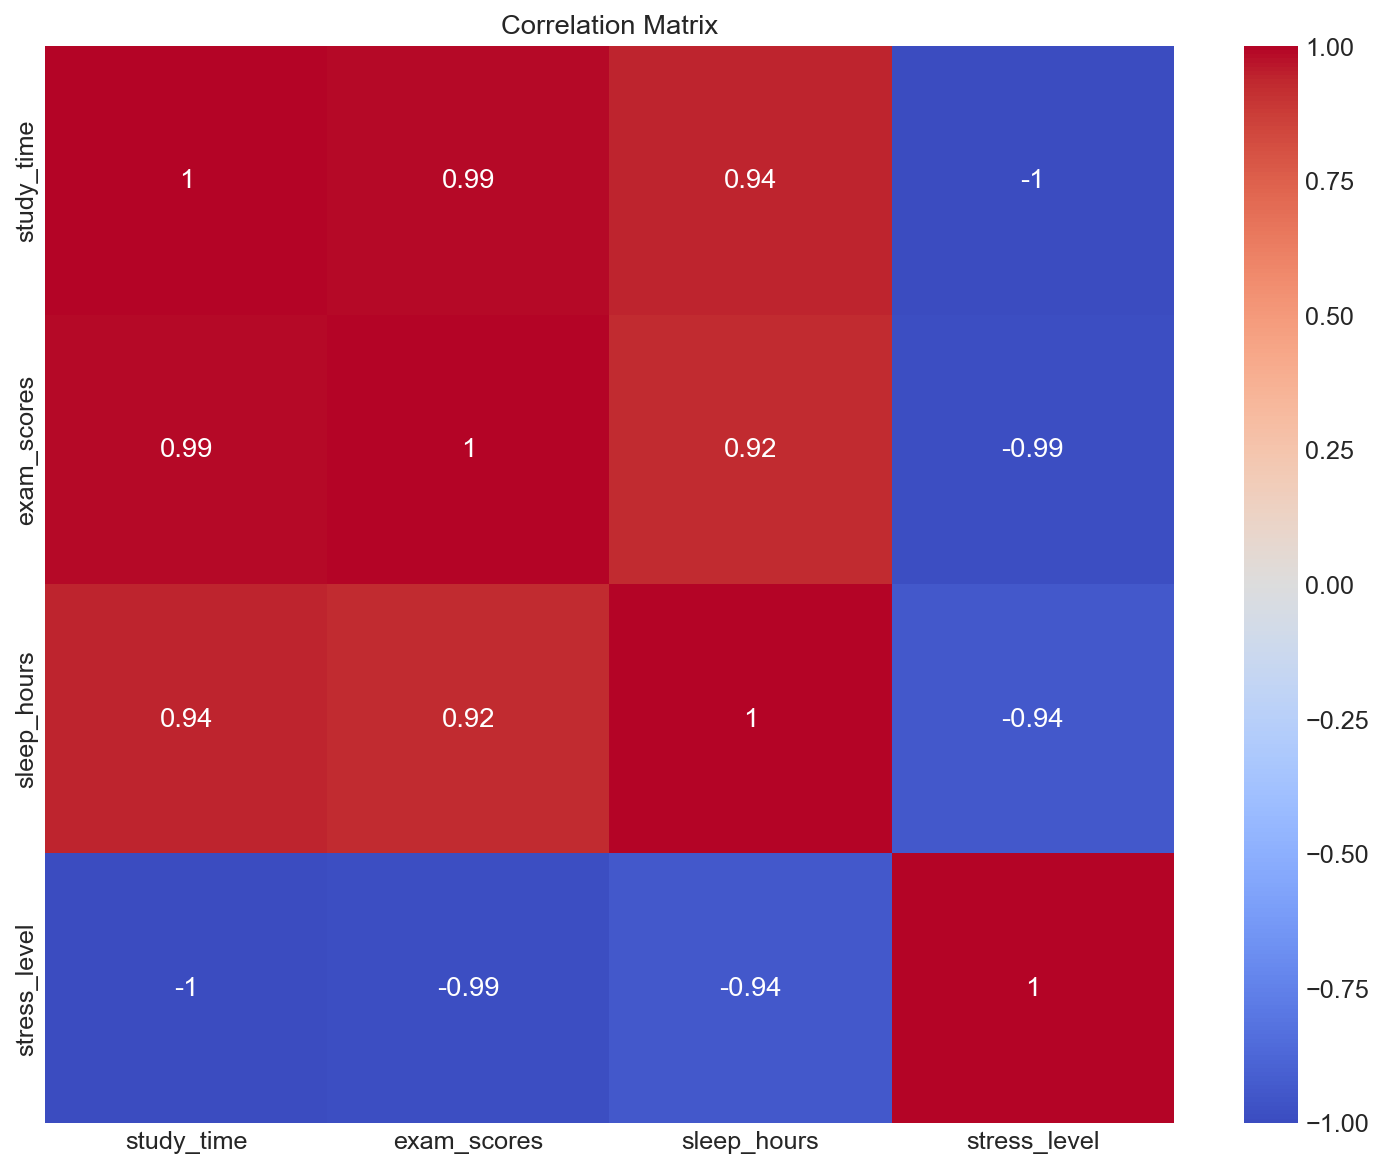
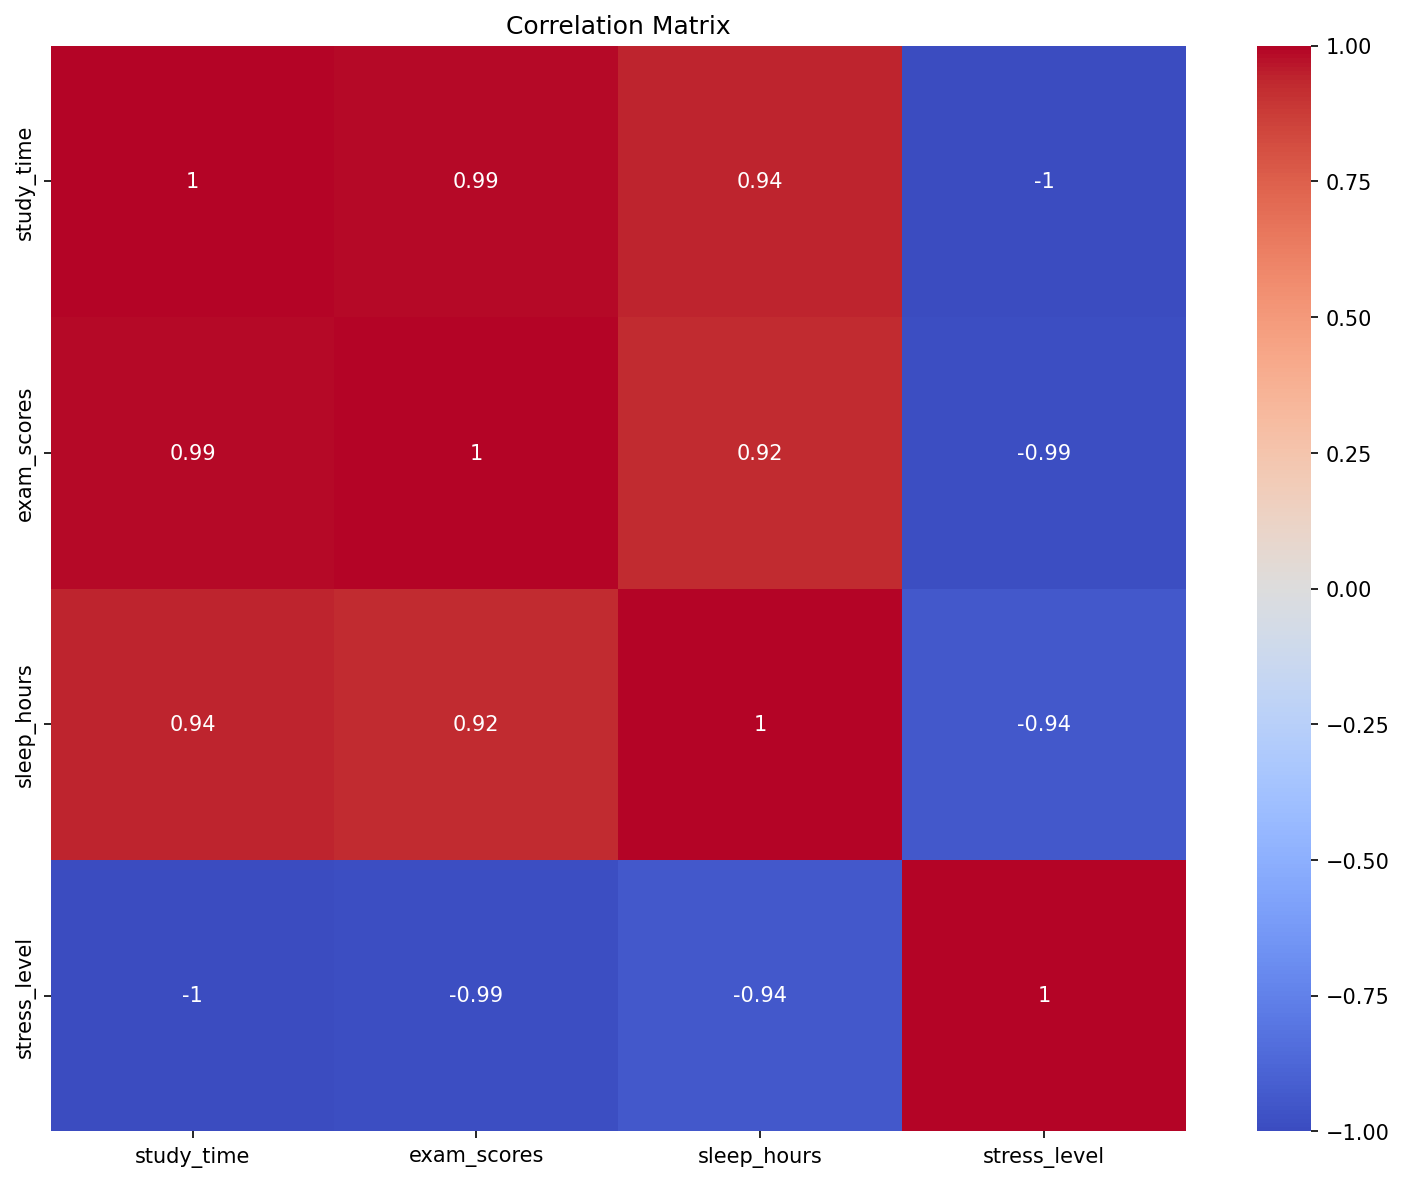
4.3 diagnostics: add Q-Q explanation and common-problems before/after visuals
- Wire orphan diagnostic figures into simple/multiple linear regression lessons
- Add generate_common_problems_visuals.py producing 4 before/after diagnostic
  plots for the "Common Problems and How to Fix Them" section
- Add a quantile-quantile plot explanation to the normality check
- Inject VIF stdout and re-render figures via inject_python_block_outputs

diff --git a/docs/4-stat-analysis/4.3-rship-in-data/generate_common_problems_visuals.py b/docs/4-stat-analysis/4.3-rship-in-data/generate_common_problems_visuals.py
@@ -1,0 +1,168 @@
+"""Before/after diagnostic plots for the "Common Problems and How to Fix Them"
+section of model-diagnostics.md. Each figure shows the erroneous diagnostic on
+the left and the same diagnostic after the recommended fix on the right.
+"""
+import matplotlib
+
+matplotlib.use("Agg")  # Use non-interactive backend
+import matplotlib.pyplot as plt
+import numpy as np
+from scipy import stats
+from sklearn.linear_model import LinearRegression
+from pathlib import Path
+
+ASSETS_DIR = Path("assets")
+ASSETS_DIR.mkdir(exist_ok=True)
+
+np.random.seed(42)
+BAD = "#c0392b"
+GOOD = "#27ae60"
+
+
+def residuals(x, y):
+    model = LinearRegression().fit(x.reshape(-1, 1), y)
+    return model.predict(x.reshape(-1, 1)), y - model.predict(x.reshape(-1, 1))
+
+
+# ----------------------------------------------------------------------
+# Problem 1: The relationship isn't actually straight (non-linearity)
+# Fix: add a quadratic term so the model can follow the curve.
+# ----------------------------------------------------------------------
+n = 120
+x = np.linspace(1, 10, n)
+y = 0.4 * x**2 + np.random.normal(0, 1.5, n)
+
+fitted_bad, resid_bad = residuals(x, y)
+
+X2 = np.column_stack([x, x**2])
+model2 = LinearRegression().fit(X2, y)
+fitted_good = model2.predict(X2)
+resid_good = y - fitted_good
+
+fig, axes = plt.subplots(1, 2, figsize=(14, 5))
+axes[0].scatter(fitted_bad, resid_bad, alpha=0.7, color=BAD)
+axes[0].axhline(0, color="k", linestyle="--", linewidth=1)
+axes[0].set_title("Problem: straight-line model\n(residuals show a clear curve)")
+axes[1].scatter(fitted_good, resid_good, alpha=0.7, color=GOOD)
+axes[1].axhline(0, color="k", linestyle="--", linewidth=1)
+axes[1].set_title("Fixed: added a quadratic term\n(residuals now scatter randomly)")
+for ax in axes:
+    ax.set_xlabel("Fitted values")
+    ax.set_ylabel("Residuals")
+    ax.grid(True, alpha=0.3)
+fig.suptitle("Problem 1 — Non-linear relationship", fontsize=14, fontweight="bold")
+plt.tight_layout()
+plt.savefig(ASSETS_DIR / "model-diagnostics_problem1.png", dpi=200, bbox_inches="tight")
+plt.close()
+
+
+# ----------------------------------------------------------------------
+# Problem 2: Inconsistent error spread (heteroscedasticity)
+# Fix: model log(y) so the multiplicative noise becomes additive.
+# ----------------------------------------------------------------------
+n = 150
+x = np.linspace(1, 10, n)
+y = 2 * x * np.exp(np.random.normal(0, 0.35, n))  # spread grows with x
+
+fitted_bad, resid_bad = residuals(x, y)
+
+logy = np.log(y)
+fitted_log, resid_good = residuals(x, logy)
+
+fig, axes = plt.subplots(1, 2, figsize=(14, 5))
+axes[0].scatter(fitted_bad, np.sqrt(np.abs(resid_bad)), alpha=0.7, color=BAD)
+axes[0].set_title("Problem: raw y\n(funnel — spread grows with fitted value)")
+axes[0].set_ylabel("√|Residuals|")
+axes[1].scatter(fitted_log, np.sqrt(np.abs(resid_good)), alpha=0.7, color=GOOD)
+axes[1].set_title("Fixed: modelled log(y)\n(spread is now roughly even)")
+axes[1].set_ylabel("√|Residuals| (log scale model)")
+for ax in axes:
+    ax.set_xlabel("Fitted values")
+    ax.grid(True, alpha=0.3)
+fig.suptitle(
+    "Problem 2 — Inconsistent error spread (heteroscedasticity)",
+    fontsize=14,
+    fontweight="bold",
+)
+plt.tight_layout()
+plt.savefig(ASSETS_DIR / "model-diagnostics_problem2.png", dpi=200, bbox_inches="tight")
+plt.close()
+
+
+# ----------------------------------------------------------------------
+# Problem 3: Errors don't follow a bell curve (non-normal residuals)
+# Fix: log-transform a right-skewed y to pull in the long tail.
+# ----------------------------------------------------------------------
+n = 200
+x = np.linspace(1, 10, n)
+y = np.exp(0.3 * x + np.random.normal(0, 0.5, n))  # right-skewed outcome
+
+_, resid_bad = residuals(x, y)
+_, resid_good = residuals(x, np.log(y))
+
+fig, axes = plt.subplots(1, 2, figsize=(14, 5))
+stats.probplot(resid_bad, dist="norm", plot=axes[0])
+axes[0].get_lines()[0].set_color(BAD)
+axes[0].get_lines()[0].set_markerfacecolor(BAD)
+axes[0].set_title("Problem: raw y\n(Q-Q points curve away from the line)")
+stats.probplot(resid_good, dist="norm", plot=axes[1])
+axes[1].get_lines()[0].set_color(GOOD)
+axes[1].get_lines()[0].set_markerfacecolor(GOOD)
+axes[1].set_title("Fixed: modelled log(y)\n(Q-Q points hug the line)")
+for ax in axes:
+    ax.grid(True, alpha=0.3)
+fig.suptitle("Problem 3 — Non-normal errors", fontsize=14, fontweight="bold")
+plt.tight_layout()
+plt.savefig(ASSETS_DIR / "model-diagnostics_problem3.png", dpi=200, bbox_inches="tight")
+plt.close()
+
+
+# ----------------------------------------------------------------------
+# Problem 4: Troublemaker points with too much influence
+# Fix: investigate, then refit without the erroneous influential point.
+# ----------------------------------------------------------------------
+n = 60
+x = np.random.uniform(2, 8, n)
+y = 1.5 * x + np.random.normal(0, 1, n)
+# inject one high-leverage, high-influence point (data-entry error)
+x_bad = np.append(x, 20.0)
+y_bad = np.append(y, 8.0)
+
+grid = np.linspace(0, 21, 100)
+m_all, b_all = np.polyfit(x_bad, y_bad, 1)
+m_clean, b_clean = np.polyfit(x, y, 1)
+
+fig, axes = plt.subplots(1, 2, figsize=(14, 5))
+axes[0].scatter(x, y, alpha=0.7, color="#34495e", label="Normal points")
+axes[0].scatter(
+    [20.0], [8.0], color=BAD, s=120, zorder=5, edgecolor="k", label="Influential point"
+)
+axes[0].plot(
+    grid,
+    m_all * grid + b_all,
+    color=BAD,
+    linestyle="--",
+    label="Fitted line (all points)",
+)
+axes[0].set_title("Problem: one point drags the line\n(high leverage + high influence)")
+axes[0].legend(fontsize=9)
+axes[1].scatter(x, y, alpha=0.7, color="#34495e", label="Normal points")
+axes[1].plot(
+    grid, m_clean * grid + b_clean, color=GOOD, label="Fitted line (point removed)"
+)
+axes[1].set_title(
+    "Fixed: confirmed data-entry error, refit\n(line follows the real pattern)"
+)
+axes[1].legend(fontsize=9)
+for ax in axes:
+    ax.set_xlabel("X")
+    ax.set_ylabel("y")
+    ax.grid(True, alpha=0.3)
+fig.suptitle("Problem 4 — Influential points", fontsize=14, fontweight="bold")
+plt.tight_layout()
+plt.savefig(ASSETS_DIR / "model-diagnostics_problem4.png", dpi=200, bbox_inches="tight")
+plt.close()
+
+print("Generated common-problems before/after images:")
+for i in range(1, 5):
+    print(f"{i}. assets/model-diagnostics_problem{i}.png")

diff --git a/docs/4-stat-analysis/4.3-rship-in-data/multiple-linear-regression.md b/docs/4-stat-analysis/4.3-rship-in-data/multiple-linear-regression.md
@@ -180,6 +180,22 @@ def check_predictor_similarity(X):
 print("\nMulticollinearity Check (VIF values):")
 print(check_predictor_similarity(X))
 {% endhighlight %}
+```
+Contribution of each factor:
+study_hours: 1.82 points
+prev_gpa: 2.96 points
+sleep_hours: 1.53 points
+
+Starting point (intercept): 0.09
+Model accuracy (R-squared): 0.94
+
+Multicollinearity Check (VIF values):
+      Variable       VIF
+0  study_hours  1.053354
+1     prev_gpa  1.019570
+2  sleep_hours  1.034520
+```
+
 
 </div>
 <aside class="code-explainer__callouts" aria-label="Code walkthrough">
